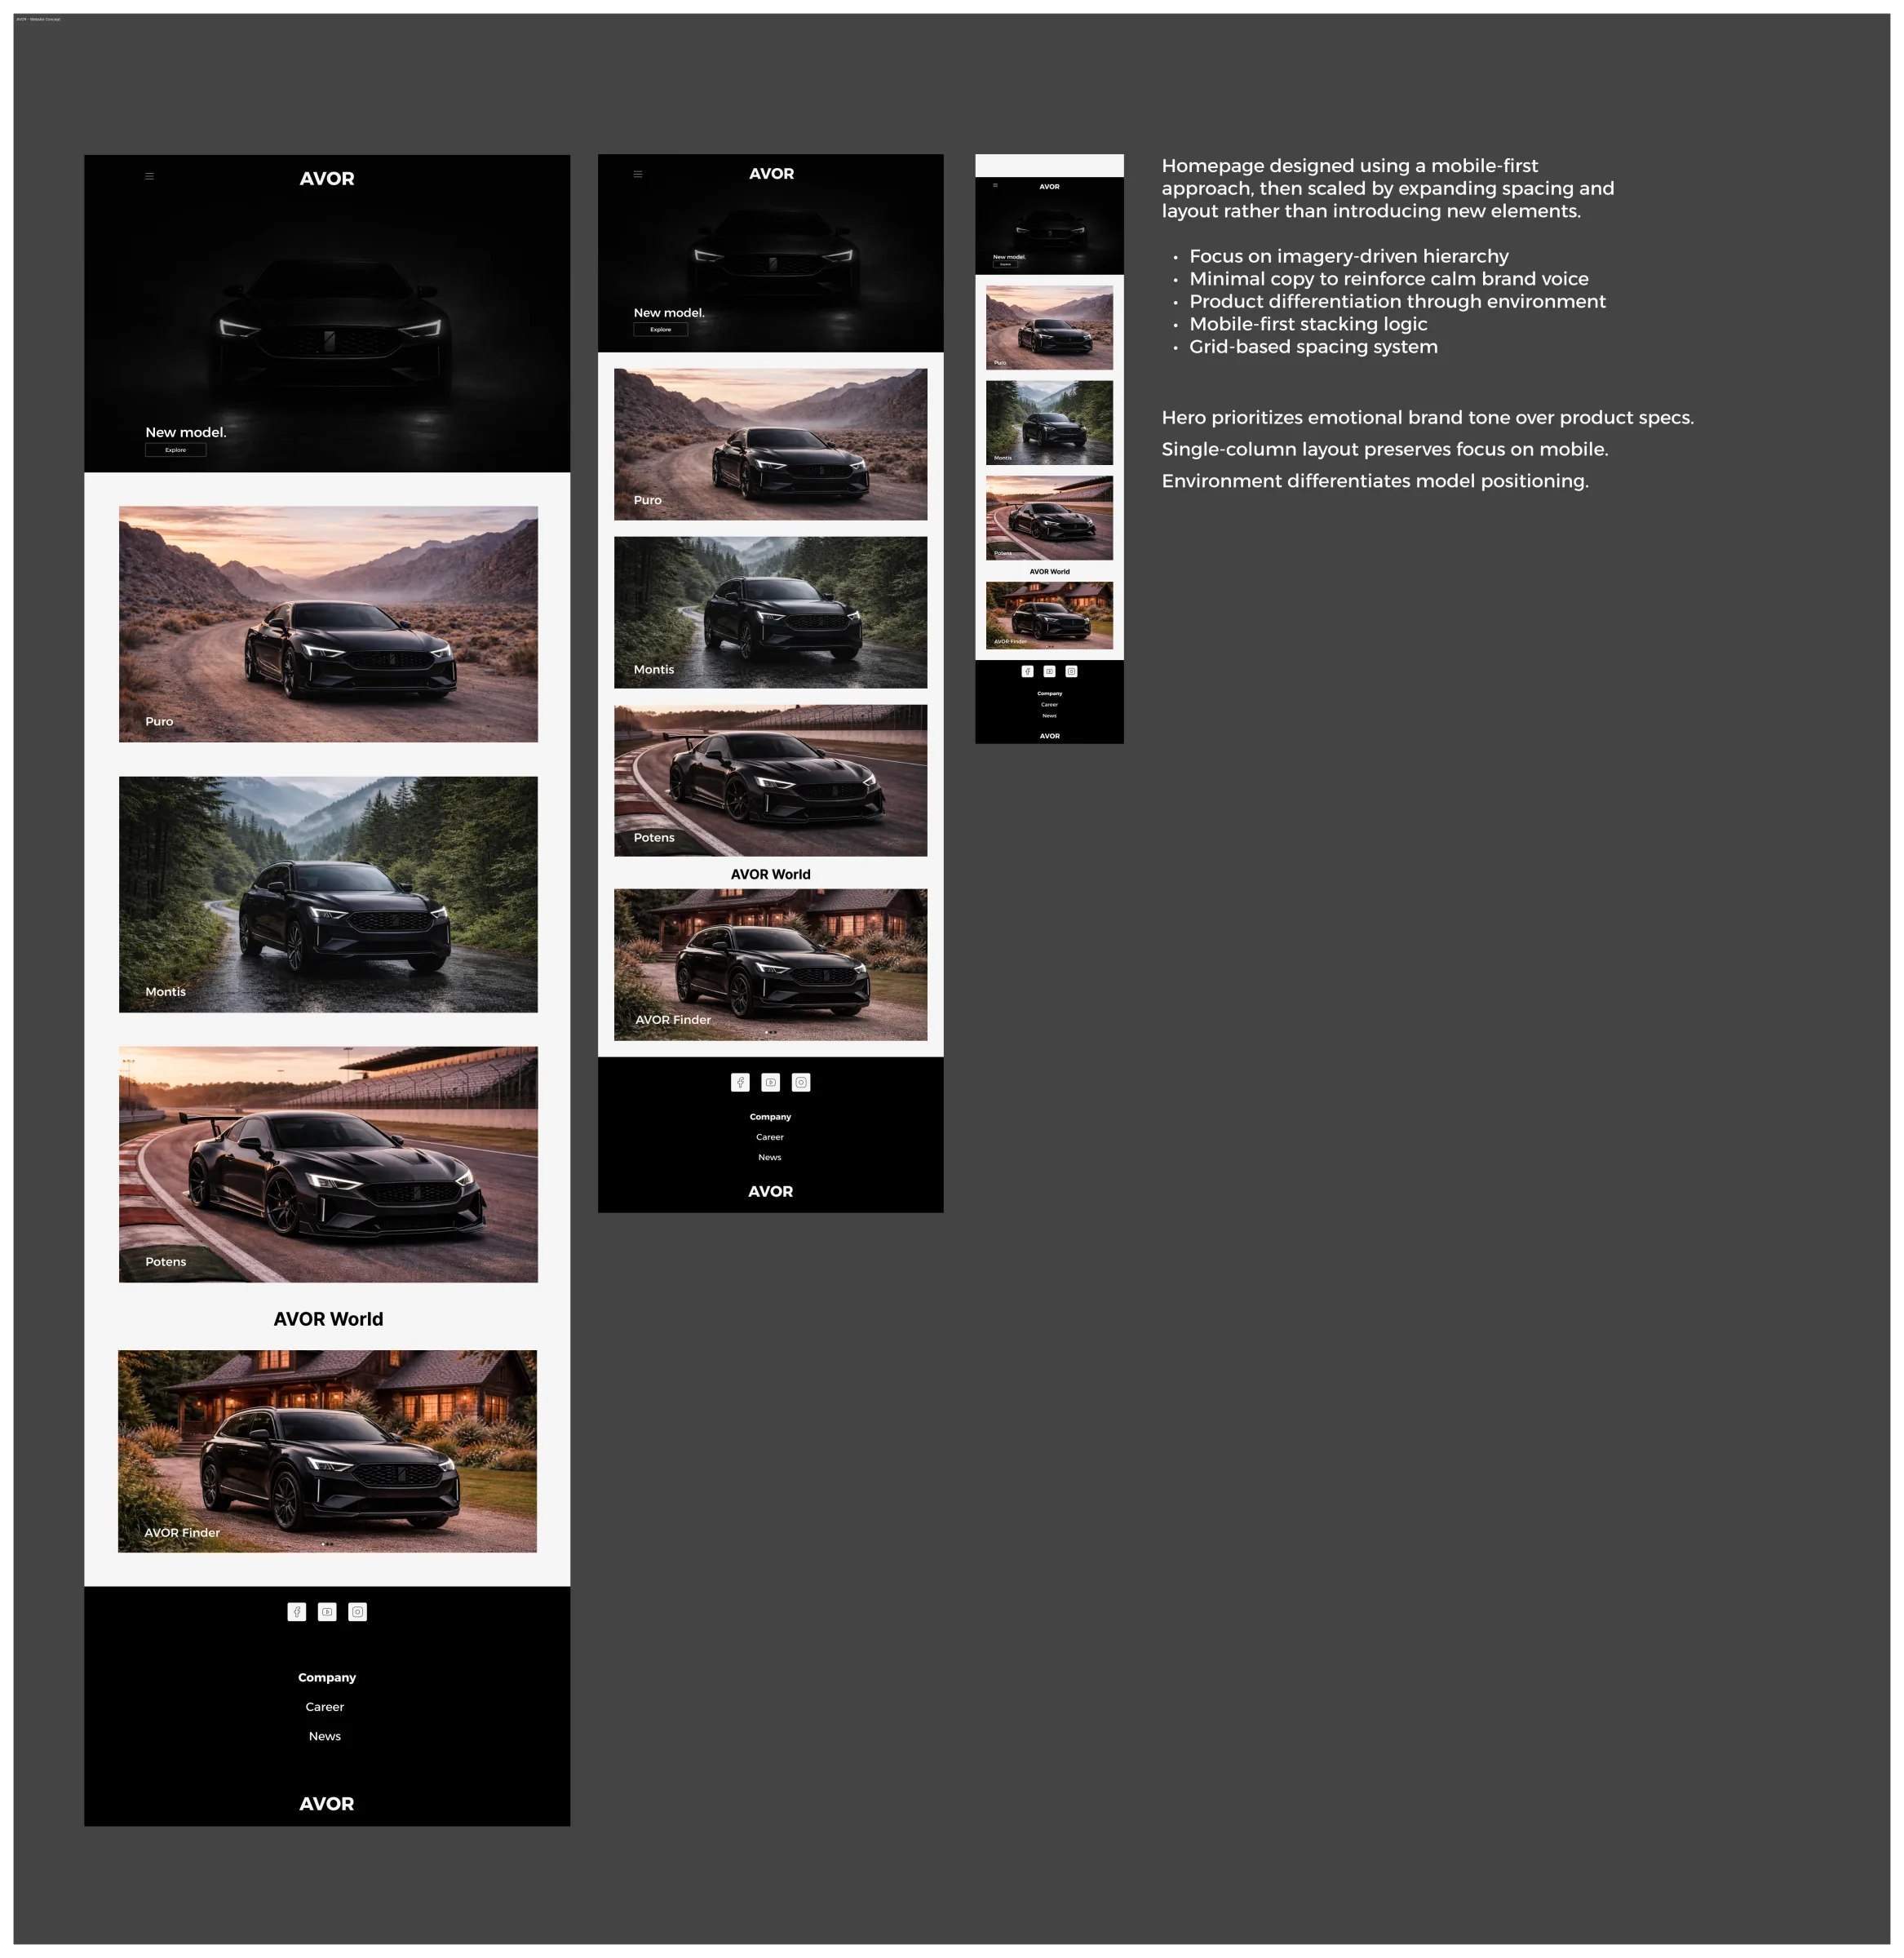
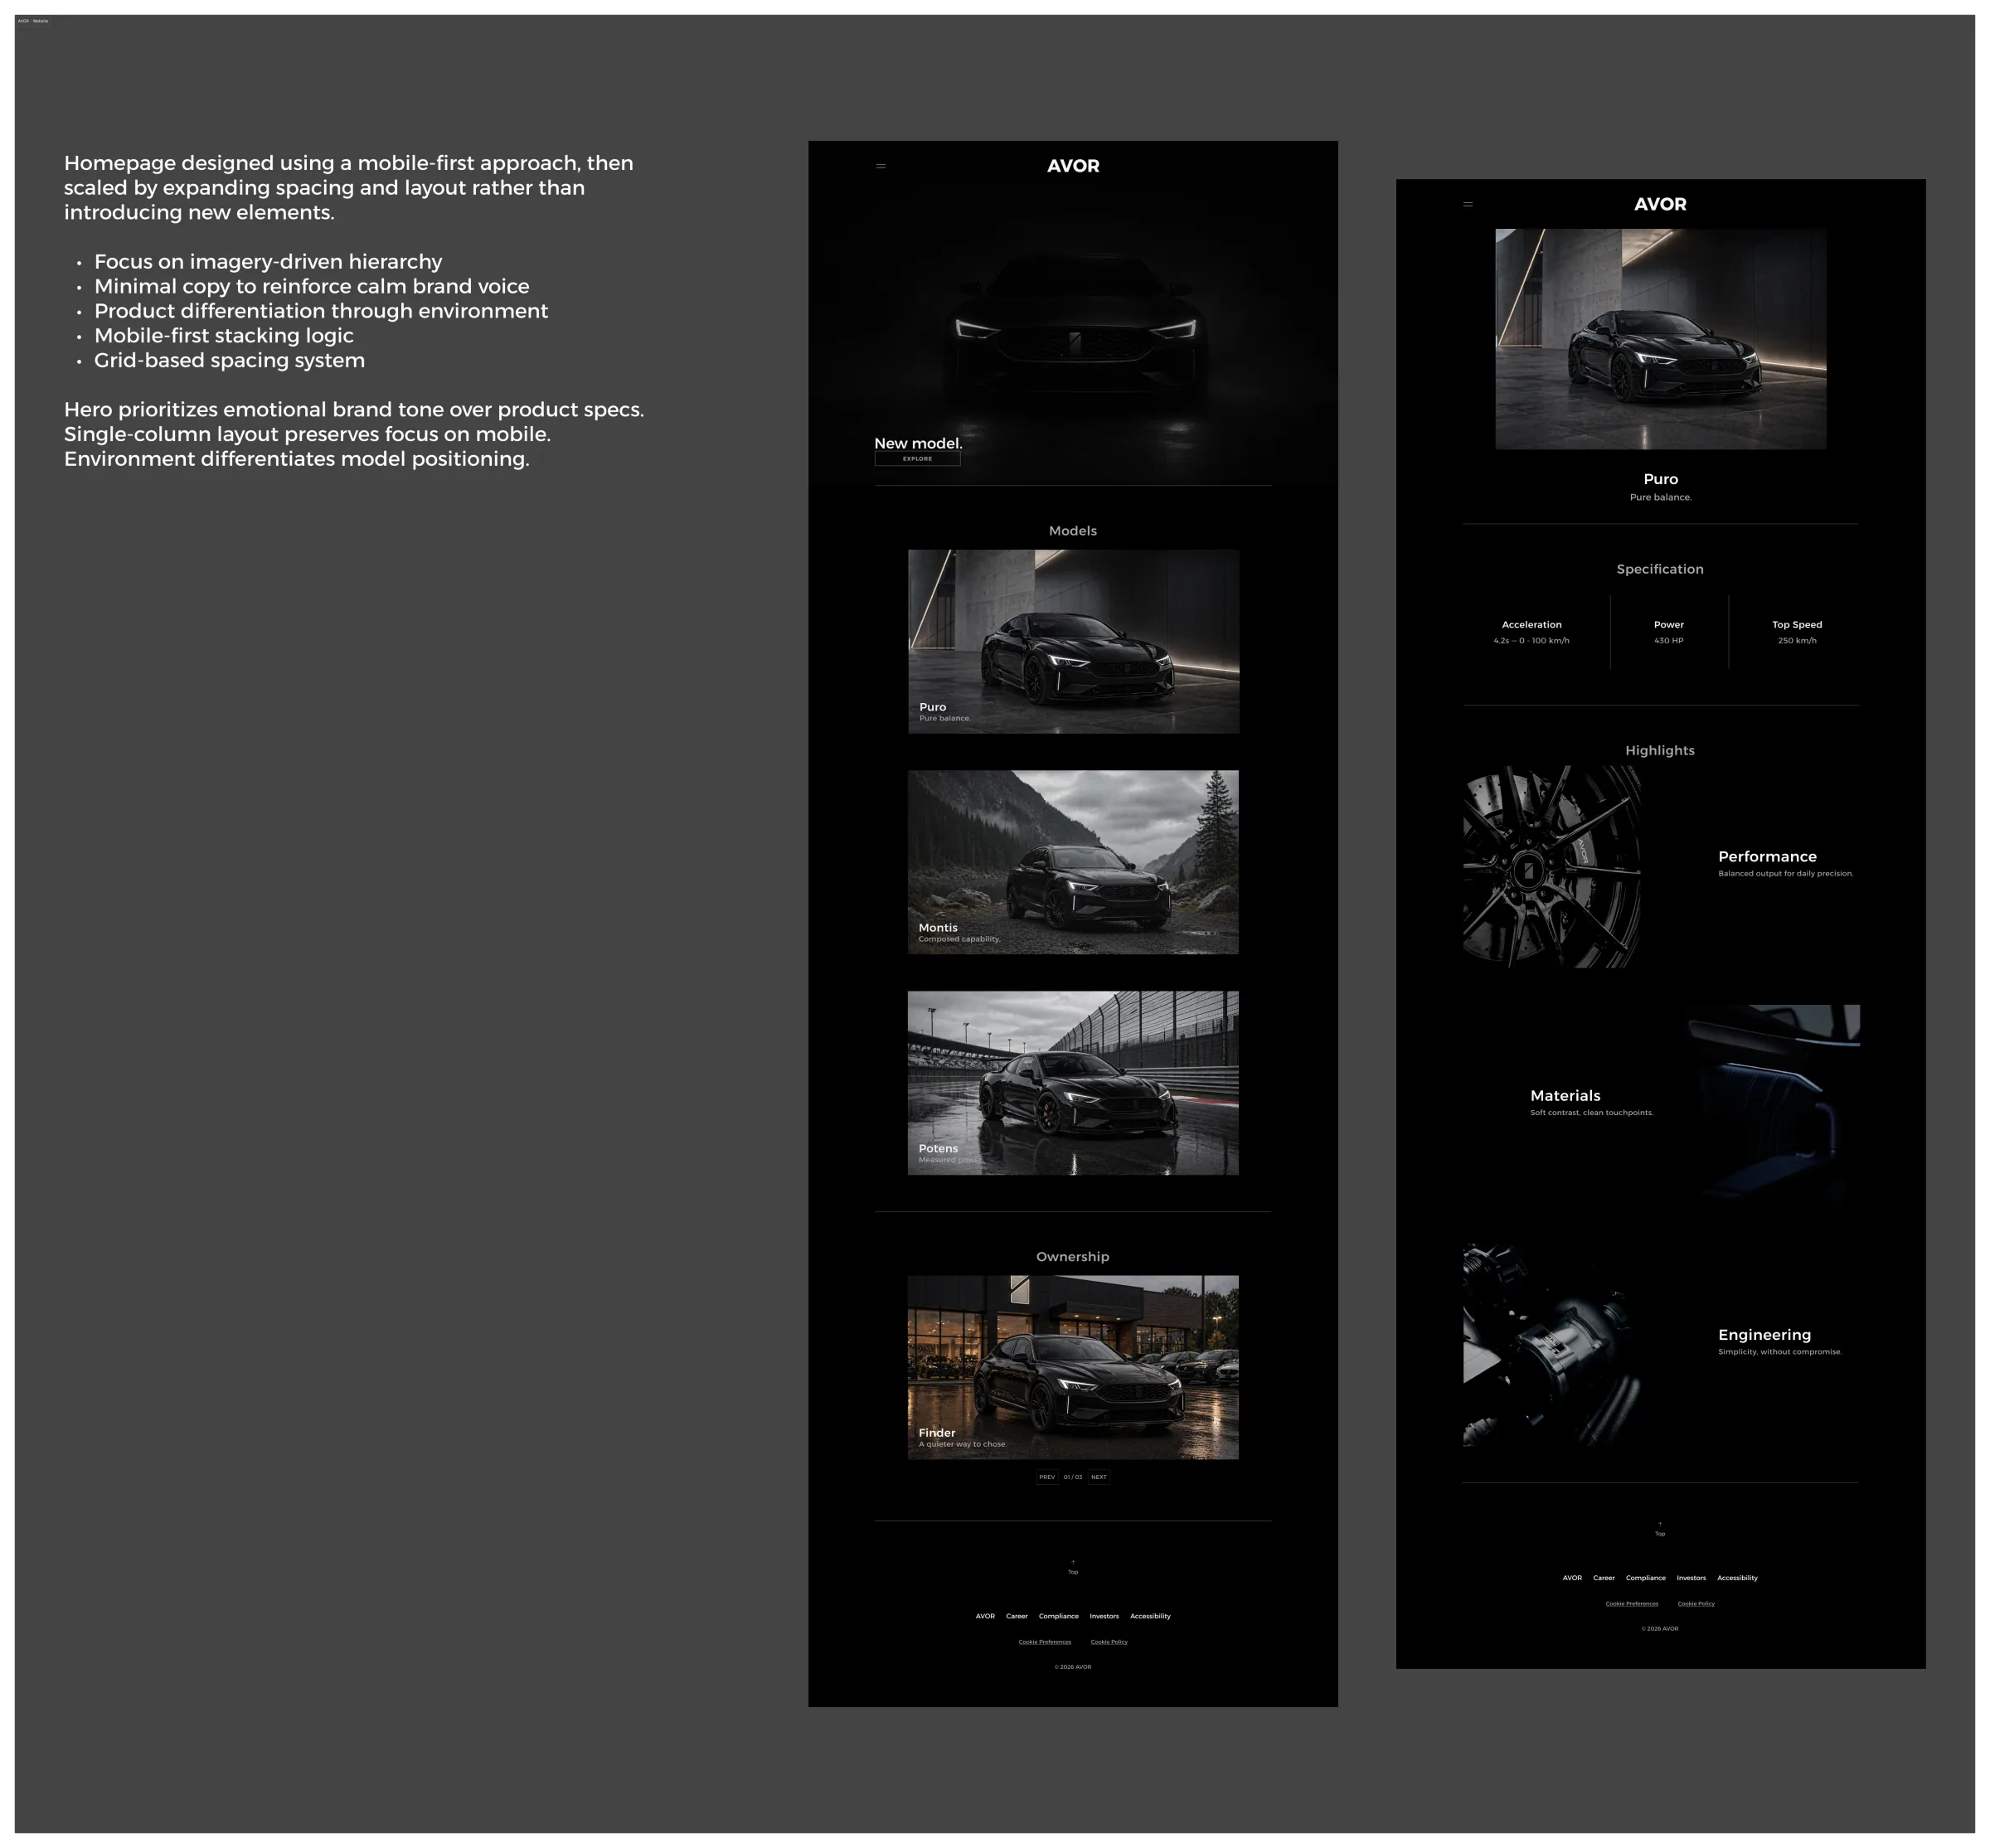
Update AVOR case study images, and closing

diff --git a/avor.html b/avor.html
@@ -21,7 +21,7 @@
     <meta name="twitter:card" content="summary_large_image">
 
     <link rel="preload" as="font" type="font/woff2" href="/assets/fonts/alexandria-variable.woff2" crossorigin>
-    <link rel="stylesheet" href="stylesmain.css?v=29b02797">
+    <link rel="stylesheet" href="stylesmain.css?v=fc5e7c8d">
     <link rel="icon" href="/assets/favicon-avor-v3.svg" type="image/svg+xml">
 
 </head>
@@ -221,7 +221,7 @@
                                 loading="lazy" decoding="async">
 
                             <img src="/assets/app2.webp" alt="AVOR companion app state concept Figma screen"
-                                class="gallery-slide" data-type="image" width="2400" height="971" loading="lazy"
+                                class="gallery-slide" data-type="image" width="2400" height="1211" loading="lazy"
                                 decoding="async">
 
                             <video src="/assets/app_demo.mp4" poster="/assets/demo_cover.webp"
@@ -276,7 +276,7 @@
 
                         <div class="gallery-stage">
                             <img src="/assets/website1.webp" alt="AVOR website concept Figma screen"
-                                class="gallery-slide is-active" data-type="image" width="2334" height="2400"
+                                class="gallery-slide is-active" data-type="image" width="2400" height="2229"
                                 loading="lazy" decoding="async">
 
                             <img src="/assets/website2.webp" alt="AVOR website model page screen" class="gallery-slide"
@@ -314,7 +314,7 @@
 
                     <h2 class="section-heading">Closing.</h2>
                     <p class="section-body">
-                        The finished work made the next iteration clearer: document design reasoning in more detail,
+                        As the project grows, the next priorities are clearer: document design reasoning in more detail,
                         formalize recurring interface patterns earlier, and structure implementation before scale becomes
                         friction.
                     </p>

diff --git a/404.html b/404.html
@@ -19,7 +19,7 @@
     <meta name="twitter:card" content="summary_large_image">
 
     <link rel="preload" as="font" type="font/woff2" href="/assets/fonts/alexandria-variable.woff2" crossorigin>
-    <link rel="stylesheet" href="stylesmain.css?v=29b02797">
+    <link rel="stylesheet" href="stylesmain.css?v=fc5e7c8d">
     <link rel="icon" href="/assets/favicon-ml-v3.svg" type="image/svg+xml">
 
 </head>

diff --git a/blitztour.html b/blitztour.html
@@ -21,7 +21,7 @@
     <meta name="twitter:card" content="summary_large_image">
 
     <link rel="preload" as="font" type="font/woff2" href="/assets/fonts/alexandria-variable.woff2" crossorigin>
-    <link rel="stylesheet" href="stylesmain.css?v=29b02797">
+    <link rel="stylesheet" href="stylesmain.css?v=fc5e7c8d">
     <link rel="icon" href="/assets/favicon-blitz-v3.svg" type="image/svg+xml">
 
 </head>

diff --git a/index.html b/index.html
@@ -20,7 +20,7 @@
     <meta name="twitter:card" content="summary_large_image">
 
     <link rel="preload" as="font" type="font/woff2" href="/assets/fonts/alexandria-variable.woff2" crossorigin>
-    <link rel="stylesheet" href="stylesmain.css?v=29b02797">
+    <link rel="stylesheet" href="stylesmain.css?v=fc5e7c8d">
     <link rel="icon" href="/assets/favicon-ml-v3.svg" type="image/svg+xml">
 
 </head>

diff --git a/neru.html b/neru.html
@@ -19,7 +19,7 @@
     <meta name="twitter:card" content="summary_large_image">
 
     <link rel="preload" as="font" type="font/woff2" href="/assets/fonts/alexandria-variable.woff2" crossorigin>
-    <link rel="stylesheet" href="stylesmain.css?v=29b02797">
+    <link rel="stylesheet" href="stylesmain.css?v=fc5e7c8d">
     <link rel="icon" href="/assets/favicon-neru-v3.svg" type="image/svg+xml">
 
 </head>